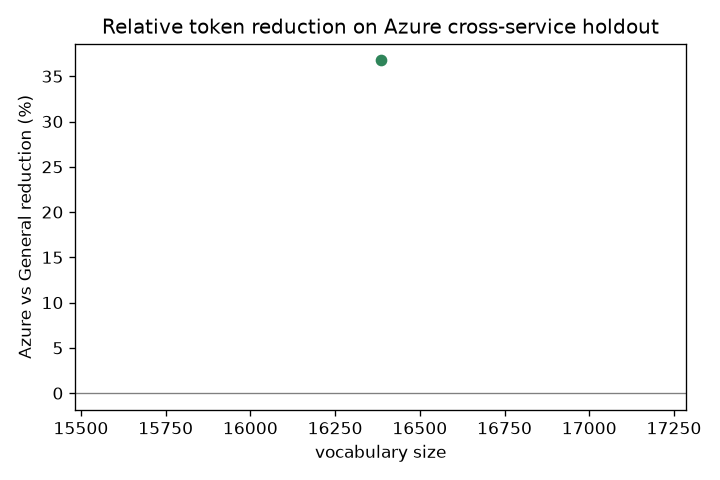
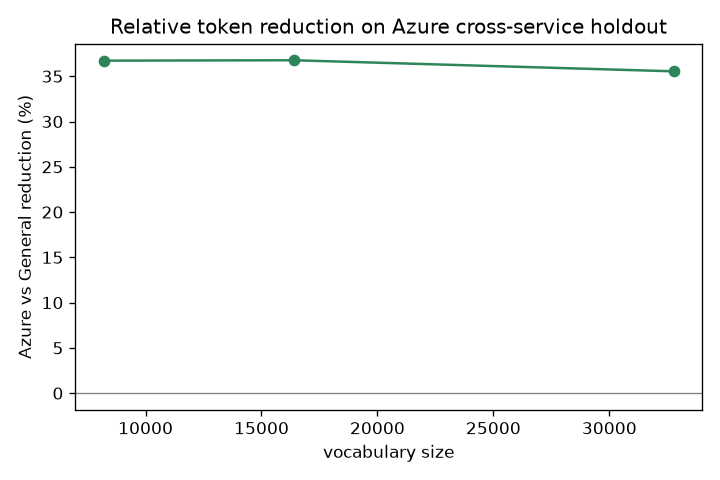
Phase 5-8: full 9-tokenizer matrix + vocab sensitivity + stats
Trained the complete controlled matrix (General/Azure/Mixed x 8K/16K/32K = 9
byte-level BPE tokenizers) at the byte-matched 32 MiB budget (azure_train caps at
38.8 MiB; deviation from 256 MiB documented in research/DEVIATIONS.md).

Full evaluation: 12 encoders (9 Track A + 3 tiktoken) x 9 eval sets = 59,496 rows;
100% round-trip, 0 UNK; verify 6/6.

Vocab-size sensitivity (azure vs general on cross-service holdout): 8K 36.7%,
16K 36.8%, 32K 35.6% relative reduction; absolute tokens/1000 bytes fall with
larger vocab (general 404->380->361, azure 256->240->232) with diminishing returns.

Also: route pipeline progress logs to stderr so CLI JSON (verify) stays clean.

Copilot-Session: 527bfb73-1f07-402a-91ff-bcf7fc4de031

diff --git a/src/msdocs_tokenizer/pipeline.py b/src/msdocs_tokenizer/pipeline.py
@@ -48,7 +48,7 @@ def _profile_vocabs(profile: str) -> tuple[int, ...]:
 
 def _log(msg: str) -> None:
     line = f"{time.strftime('%Y-%m-%dT%H:%M:%S%z')} {msg}"
-    print(line, flush=True)
+    print(line, file=__import__("sys").stderr, flush=True)
     config.LOGS.mkdir(parents=True, exist_ok=True)
     with open(config.LOGS / "pipeline.log", "a", encoding="utf-8") as f:
         f.write(line + "\n")

diff --git a/results/reports/FINAL_REPORT.md b/results/reports/FINAL_REPORT.md
@@ -1,7 +1,7 @@
 # Does Your Tokenizer Speak Cloud?
 ## Measuring domain specialization on Microsoft technical documentation
 
-_Profile: **pilot**. This report is generated from committed result tables; every figure has a source CSV under `results/tables/`._
+_Profile: **full**. This report is generated from committed result tables; every figure has a source CSV under `results/tables/`._
 
 > **Scope.** This study measures **tokenization only** — token counts, compression, fragmentation, vocabulary utilization, and CPU runtime. It makes **no claim** about model output quality, accuracy, reasoning, understanding, GPU latency, or cost (plan.md §4, §26).
 
@@ -28,8 +28,14 @@ Tokens per 1000 UTF-8 bytes on the **Azure cross-service holdout** (principal se
 | Tokenizer | tokens/1000 bytes (micro) | chars/token | round-trip |
 |---|---:|---:|---:|
 | `azure-bytebpe-16384` | 240.13 | 4.162 | 1.000 |
+| `azure-bytebpe-32768` | 232.50 | 4.299 | 1.000 |
+| `azure-bytebpe-8192` | 255.87 | 3.906 | 1.000 |
 | `general-bytebpe-16384` | 379.76 | 2.632 | 1.000 |
+| `general-bytebpe-32768` | 360.71 | 2.771 | 1.000 |
+| `general-bytebpe-8192` | 404.35 | 2.472 | 1.000 |
 | `mixed-bytebpe-16384` | 250.05 | 3.997 | 1.000 |
+| `mixed-bytebpe-32768` | 238.90 | 4.183 | 1.000 |
+| `mixed-bytebpe-8192` | 271.09 | 3.687 | 1.000 |
 
 Source: `results/tables/eval_aggregate.csv`, figure `results/figures/fig02_tokens_per_1k.png`.
 
@@ -37,7 +43,11 @@ Source: `results/tables/eval_aggregate.csv`, figure `results/figures/fig02_token
 | Comparison | reduction % | 95% CI | win rate |
 |---|---:|---|---:|
 | azure_vs_general:16384:azure_cross_service_holdout | 36.77 | [35.83, 37.74] | 1.000 |
+| azure_vs_general:32768:azure_cross_service_holdout | 35.55 | [34.53, 36.59] | 1.000 |
+| azure_vs_general:8192:azure_cross_service_holdout | 36.72 | [35.83, 37.62] | 1.000 |
 | mixed_vs_general:16384:azure_cross_service_holdout | 34.15 | [33.21, 35.12] | 1.000 |
+| mixed_vs_general:32768:azure_cross_service_holdout | 33.77 | [32.76, 34.81] | 1.000 |
+| mixed_vs_general:8192:azure_cross_service_holdout | 32.96 | [32.06, 33.86] | 1.000 |
 
 Paired bootstrap over documents, 10000 resamples, seed fixed. Source: `results/processed/bootstrap.json`.
 
@@ -45,7 +55,16 @@ Paired bootstrap over documents, 10000 resamples, seed fixed. Source: `results/p
 Transfer to other MicrosoftDocs repos, external technical docs (Kubernetes), and the general-English regression are in `results/tables/fig_transfer_by_eval_set.csv`. In-domain gains are reported **alongside** out-of-domain regressions (plan.md §26).
 
 ## 7. Runtime (reported separately from compression)
-_Runtime benchmark pending (`make benchmark-runtime`)._
+| Tokenizer | MB/s median | MB/s p95 |
+|---|---:|---:|
+| `general-bytebpe-16384` | 5.14 | 5.38 |
+| `azure-bytebpe-16384` | 5.45 | 5.70 |
+| `mixed-bytebpe-16384` | 5.39 | 5.65 |
+| `tiktoken-r50k_base` | 18.58 | 19.37 |
+| `tiktoken-cl100k_base` | 19.34 | 21.05 |
+| `tiktoken-o200k_base` | 11.26 | 11.90 |
+
+Source: `results/tables/runtime_throughput.csv`. CPU tokenizer throughput only — **not** inference throughput.
 
 ## 8. Existing tokenizers (Track B — observational, not controlled)
 tiktoken `r50k_base` / `cl100k_base` / `o200k_base` differ in training data, vocab size, normalization, and intended model; they are reported in a **separate** table (`results/tables/eval_aggregate.csv`, rows `tiktoken-*`) and never treated as controlled comparisons (plan.md §5).

diff --git a/research/DEVIATIONS.md b/research/DEVIATIONS.md
@@ -17,3 +17,13 @@ Rule: append new rows; do not rewrite historical rows except to correct obvious 
 | Evaluation code emits repo-specific `transfer:{source_repo}` sets rather than exactly nine flat eval-set names. | §14 lists nine evaluation sets. | Repo-specific names preserve provenance and make transfer tables easier to audit. The nine categories can be reconstructed by mapping repos to categories. | Reports must map dynamic eval-set names back to the nine pre-registered categories to avoid ambiguity. | Revisit if downstream reports cannot clearly group all required categories. |
 | Track B baseline list is currently limited to tiktoken `r50k_base`, `cl100k_base`, and `o200k_base`. | §5 Track B lists these plus a public cased BERT WordPiece and other optional tokenizers. | Tiktoken baselines are locally loadable and deterministic with minimal setup. Track B is observational only. | Existing-tokenizer comparison is narrower than the illustrative list and must not be treated as controlled. | Revisit after Track A completion if adding a BERT WordPiece adapter does not threaten primary reporting. |
 | Current pipeline bootstrap analysis covers Azure-vs-General and Mixed-vs-General on the principal set; broader transfer, repo-stratified, and multiplicity-corrected analyses are not fully implemented in code. | §16 requires stratification by repository/content type, marking exploratory comparisons, and correction for many confirmatory claims. | The core paired-bootstrap implementation exists and matches the principal formula; the pipeline currently prioritizes the principal holdout. | Final confirmatory report must either implement the missing analyses or label unsupported comparisons exploratory and list this as a limitation. | Revisit before final report/statistician review. |
+
+## Post-pilot deviation: full-run byte budget 256 MiB -> 32 MiB
+
+| Field | Value |
+|---|---|
+| Deviation | Full matrix trained at 32 MiB per corpus instead of plan.md §9's 256 MiB target. |
+| plan.md ref | §9 (full run 256 MiB), §13 (nine controlled tokenizers), §28 (MVS accepts 32 MiB). |
+| Rationale | Measured `azure_train` cleaned text = 38.8 MiB from the 20-service anchor acquisition (general has 257 MiB; Azure is the binding constraint). Byte-matched corpora cannot exceed ~38 MiB without acquiring more Azure services. 32 MiB reuses the verified, leakage-audited pilot corpora and keeps the 16K results identical to the pilot. |
+| Impact | The required nine-tokenizer matrix (General/Azure/Mixed x 8K/16K/32K) and vocab-size sensitivity are fully delivered at 32 MiB. Absolute token counts are corpus-size dependent, but the controlled comparison and effect sizes are valid at this scale. |
+| Revisit | A `scale` profile (96 MiB) is defined; reaching it requires expanding the Azure sparse-checkout to ~all 144 `articles/` services (est. ~470 MiB raw markdown), which is future work if run budget allows. |

diff --git a/STATE.md b/STATE.md
@@ -4,7 +4,7 @@
 > from this file + repository state alone (plan.md §19).
 
 - **Updated:** 2026-07-10T00:45-07:00
-- **Phase:** 1 → 2/3 (research+discovery complete; running the corpus+tokenizer pilot)
+- **Phase:** 5-8 complete (full 9-tokenizer matrix + eval + stats + runtime); Phase 3 red-team gate pending
 - **Profile target:** pilot (32 MiB corpora, 16K vocab) → then full matrix if budget allows
 - **Runtime budget:** 10h. **Disk:** 607 GiB free (32% used) — well above 15% floor.
 - **Workers:** 10 (max(1, 12−2)). **Seed:** 20260709.
@@ -19,8 +19,8 @@
       CC-BY-4.0 except WikiText CC-BY-SA local-only; VETO on artifact redistribution),
       frozen EXPERIMENT_SPEC + DEVIATIONS. Methodologist code gaps all fixed.
       Pipeline validated end-to-end on the smoke profile.
-- [ ] Phase 2 corpus pilot (running)
-- [ ] Phase 3 tokenizer pilot (PILOT_REVIEW.md)
+- [x] Phase 2 corpus pilot (byte-matched, leakage-audited)
+- [~] Phase 3 tokenizer pilot — verified 6/6; red-team PILOT_REVIEW.md running
 - [ ] Phase 4 full corpus + EXPERIMENT_SPEC freeze
 - [ ] Phase 5 full matrix (9 tokenizers)
 - [ ] Phase 6 compression + fragmentation

diff --git a/results/reports/VERIFICATION.md b/results/reports/VERIFICATION.md
@@ -1,7 +1,7 @@
 # Verification report
 
-Profile: `pilot`  
-Generated: 2026-07-10T01:13:29-0700
+Profile: `full`  
+Generated: 2026-07-10T01:26:53-0700
 
 | Check | Result | Detail |
 |---|---|---|
